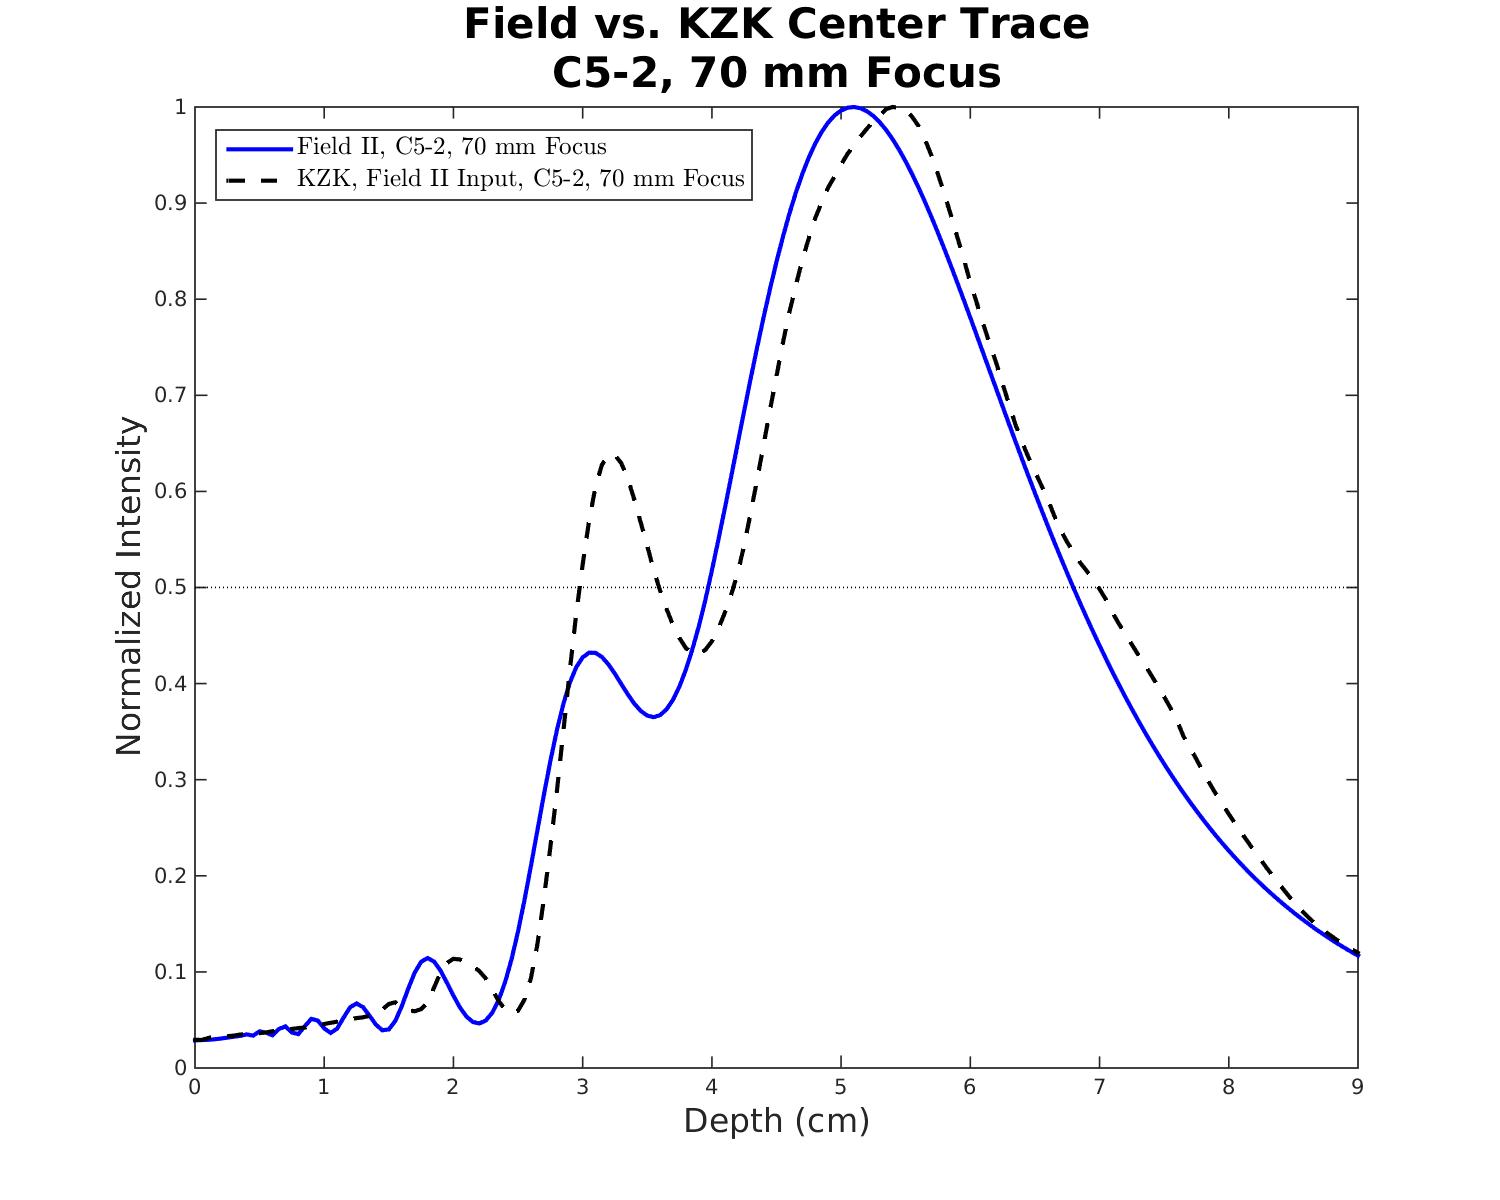
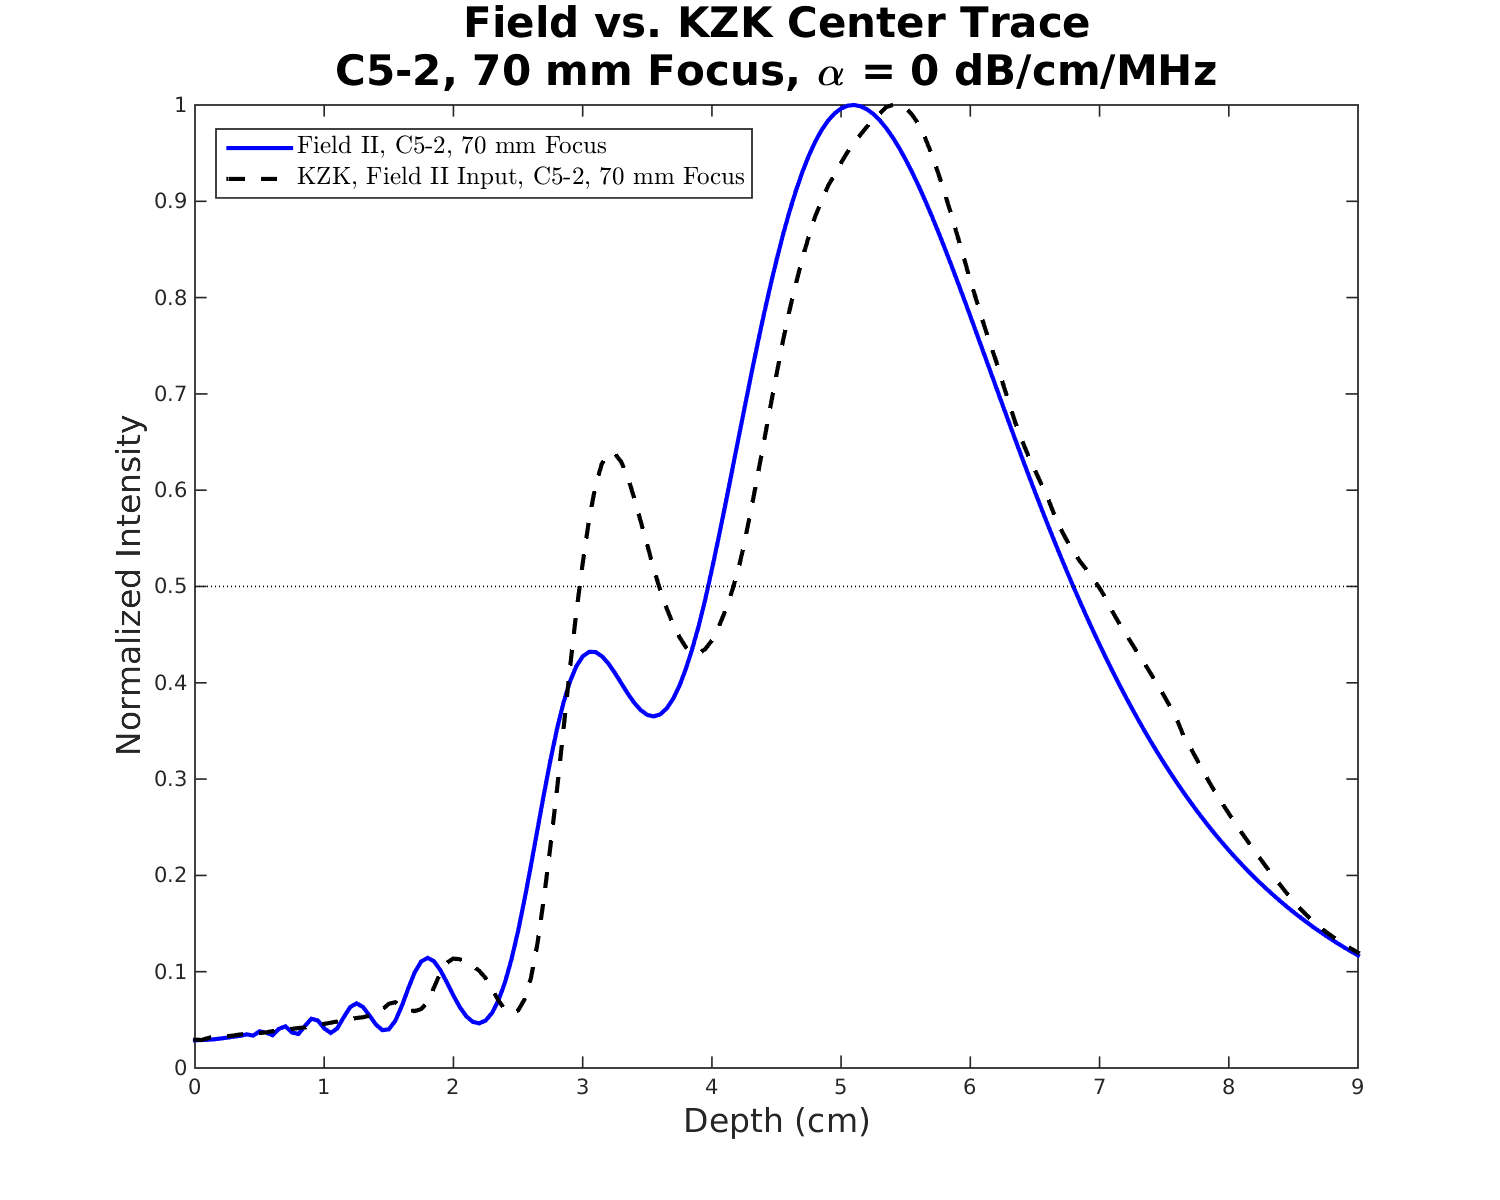
updated all centertrace plots for 70mm focus linear comparisons

diff --git a/comparisons/focus70mm/linear_compare/a_0.45/linear_compare.m b/comparisons/focus70mm/linear_compare/a_0.45/linear_compare.m
@@ -1,12 +1,12 @@
 clear; clf;
 
-addpath ../../../metrics/
+addpath ../../../../metrics/
 
 %% Field II and KZK (linear) sim comparisons - 70 mm focus
 
 % Field
 fprintf('Field II:\n')
-load /luscinia/nl91/nonlinear_acoustic/field/field_c52_70mm/dyna-I-f2.36-F3.5-FD0.070-a0.45.mat
+load /luscinia/nl91/nonlinear_acoustic/field/field_c52_70mm/a_0.45/dyna-I-f2.36-F3.5-FD0.070-a0.45.mat
 field_ele = -1.2:0.02:0;
 field_lat = 0:0.02:2.0;
 field_depth = 0:0.05:9.0;
@@ -53,7 +53,7 @@ fprintf('\n')
 % Linear KZK w/ Field II Pressure Input
 fprintf('Linear KZK w/ Field II Pressure Input:\n')
 load(['/luscinia/nl91/nonlinear_acoustic/kzk/field_ii_c52_focus70mm/'...
-      'B_0/a_0.45_B_0/c52_70mm_intensity_field_field_ii_pressure_input.mat'])
+      'B_0.0/a_0.450_B_0/c52_70mm_intensity_field_field_ii_pressure_input.mat'])
           
 intensity_kzk_finput_70mm = permute(intensity, [3 2 1]);
 intensity_kzk_finput_70mm = intensity_kzk_finput_70mm(1:length(kzk_ele), length(kzk_lat):end, :);
@@ -78,89 +78,88 @@ imagesc(squeeze(intensity_kzk_finput_70mm(end, :, :))')
 
 %% center trace plot
 figure(2)
-centertrace('field_kzk_centertrace_c52_70mm.png', 'Field vs. KZK Center Trace - C5-2, 70 mm Focus',...
+centertrace('field_kzk_centertrace_c52_70mm.png', ['Field vs. KZK Center Trace' 10 'C5-2, 70 mm Focus, \alpha = 0.45 dB/cm/MHz'],...
             intensity_field_70mm, intensity_field_70mm_depth, 'Field II, C5-2, 70 mm Focus',...
-            intensity_kzk_70mm, intensity_kzk_70mm_depth, 'KZK, C5-2, 70 mm Focus',...
             intensity_kzk_finput_70mm, intensity_kzk_70mm_depth, 'KZK, Field II Input, C5-2, 70mm Focus')
         
-%% KZK contour plots
-% 10 is the ASCII value for a newline. used to break subplot title string
-% into multiple lines.
-nln = 10;
-
-% contour plot in elevation-lateral plane at various depths
-% Depth planes in 3.75 cm, 5.10 cm, and 6.40 cm planes. These planes chosen
-% because Field II intensity field is maximum in 3.75 cm plane and KZK
-% intensity field is max in 6.40 cm plane.
-figure(3);
-contourplots('kzk_70mm_depth.png', ['KZK Sim' nln 'Expt. Input, 70 mm Focus' nln 'Depth Plane'],...
-              intensity_kzk_70mm, kzk_ele, kzk_lat, kzk_depth, 3,...
-              [76 103 129], [0 0.45 -.4 0]);
-
-% contour plot in depth-elevation plane at various lateral positions
-% Lateral planes are 0.00 cm, 0.06 cm, and 0.14 cm planes. These planes chosen
-% because KZK intensity field is maximum in 0.00 cm plane and Field II
-% intensity field is max in 0.14 cm plane.
-figure(4);
-contourplots('kzk_70mm_lateral.png', ['KZK Sim' nln 'Expt. Input, 70 mm Focus' nln 'Lateral Plane'],...
-             intensity_kzk_70mm, kzk_ele, kzk_lat, kzk_depth, 2,...
-             [1 4 8], [-.3 0 1 9]);
-
-% contour plot in depth-lateral plane at various elevational positions
-% Elevational planes are -0.14 cm, -0.06 cm, and 0.00 cm planes. These 
-% planes were chosen because both Field II and KZK intensity fields are
-% maximum in 0.00 cm plane.
-figure(5);
-contourplots('kzk_70mm_elevational.png', ['KZK Sim' nln 'Expt. Input, 70 mm Focus' nln 'Elevational Plane'],...
-             intensity_kzk_70mm, kzk_ele, kzk_lat, kzk_depth, 1,...
-             [53 57 61], [0 .6 1 9]);
-         
-%% Field II contour plots
-% contour plot in elevation-lateral plane at various depths
-% Depth planes in 3.75 cm, 5.10 cm, and 6.40 cm planes.
-figure(6);
-contourplots('field2_70mm_depth.png', ['Field II, 70 mm Focus' nln 'Depth Plane'],...
-             intensity_field_70mm, field_ele, field_lat, field_depth, 3,...
-             [76 103 129], [0 0.45 -.4 0]);
-
-% contour plot in depth-elevation plane at various lateral positions
-% Lateral planes are 0.00 cm, 0.06 cm, and 0.14 cm planes.
-figure(7);
-contourplots('field2_70mm_lateral.png', ['Field II, 70 mm Focus' nln 'Lateral Plane'],...
-             intensity_field_70mm, field_ele, field_lat, field_depth, 2,...
-             [1 4 8], [-.3 0 1 9]);
-
-% contour plot in depth-lateral plane at various elevational positions         
-% Elevational planes are -0.14 cm, -0.06 cm, and 0.00 cm planes.
-figure(8);
-contourplots('field2_70mm_elevational.png', ['Field II, 70 mm Focus' nln 'Elevational Plane'],...
-             intensity_field_70mm, field_ele, field_lat, field_depth, 1,...
-             [53 57 61], [0 .6 1 9]);
-         
-%% KZK, Field II pressure input, contour plots 
-% contour plot in elevation-lateral plane at various depths
-% Depth planes in 2.3 cm, 2.75 cm, and 3.2 cm planes. These planes chosen
-% because KZK intensity field is maximum in 2.3 cm plane and Field II
-% intensity field is max in 3.2 cm plane.
-figure(9);
-contourplots('kzk_f2_input_70mm_depth.png', ['KZK Sim' nln 'Field II Inputs, 70 mm Focus' nln 'Depth Plane'],...
-              intensity_kzk_finput_70mm, kzk_ele, kzk_lat, kzk_depth, 3,...
-              [76 103 129], [0 0.45 -.4 0]);
-
-% contour plot in depth-elevation plane at various lateral positions
-% Lateral planes are 0.00 cm, 0.08 cm, and 0.16 cm planes. 0.00 cm plane
-% was chosen because both KZK and Field II intensity fields were maximum at
-% 0.00 cm lateral position.
-figure(10);
-contourplots('kzk_f2_input_70mm_lateral.png', ['KZK Sim' nln 'Field II Inputs, 70 mm Focus' nln 'Lateral Plane'],...
-             intensity_kzk_finput_70mm, kzk_ele, kzk_lat, kzk_depth, 2,...
-             [1 4 8], [-.3 0 1 9]);
-
-% contour plot in depth-lateral plane at various elevational positions
-% Elevational planes are -0.14 cm, -0.06 cm, and 0.00 cm planes. These 
-% planes were chosen because KZK intensity field is maximum in -0.14 cm 
-% plane while the Field II intensity field is max in 0.00 cm plane.
-figure(11);
-contourplots('kzk_f2_input_70mm_elevational.png', ['KZK Sim' nln 'Field II Inputs, 70 mm Focus' nln 'Elevational Plane'],...
-             intensity_kzk_finput_70mm, kzk_ele, kzk_lat, kzk_depth, 1,...
-             [53 57 61], [0 .6 1 9]);
+% %% KZK contour plots
+% % 10 is the ASCII value for a newline. used to break subplot title string
+% % into multiple lines.
+% nln = 10;
+% 
+% % contour plot in elevation-lateral plane at various depths
+% % Depth planes in 3.75 cm, 5.10 cm, and 6.40 cm planes. These planes chosen
+% % because Field II intensity field is maximum in 3.75 cm plane and KZK
+% % intensity field is max in 6.40 cm plane.
+% figure(3);
+% contourplots('kzk_70mm_depth.png', ['KZK Sim' nln 'Expt. Input, 70 mm Focus' nln 'Depth Plane'],...
+%               intensity_kzk_70mm, kzk_ele, kzk_lat, kzk_depth, 3,...
+%               [76 103 129], [0 0.45 -.4 0]);
+% 
+% % contour plot in depth-elevation plane at various lateral positions
+% % Lateral planes are 0.00 cm, 0.06 cm, and 0.14 cm planes. These planes chosen
+% % because KZK intensity field is maximum in 0.00 cm plane and Field II
+% % intensity field is max in 0.14 cm plane.
+% figure(4);
+% contourplots('kzk_70mm_lateral.png', ['KZK Sim' nln 'Expt. Input, 70 mm Focus' nln 'Lateral Plane'],...
+%              intensity_kzk_70mm, kzk_ele, kzk_lat, kzk_depth, 2,...
+%              [1 4 8], [-.3 0 1 9]);
+% 
+% % contour plot in depth-lateral plane at various elevational positions
+% % Elevational planes are -0.14 cm, -0.06 cm, and 0.00 cm planes. These 
+% % planes were chosen because both Field II and KZK intensity fields are
+% % maximum in 0.00 cm plane.
+% figure(5);
+% contourplots('kzk_70mm_elevational.png', ['KZK Sim' nln 'Expt. Input, 70 mm Focus' nln 'Elevational Plane'],...
+%              intensity_kzk_70mm, kzk_ele, kzk_lat, kzk_depth, 1,...
+%              [53 57 61], [0 .6 1 9]);
+%          
+% %% Field II contour plots
+% % contour plot in elevation-lateral plane at various depths
+% % Depth planes in 3.75 cm, 5.10 cm, and 6.40 cm planes.
+% figure(6);
+% contourplots('field2_70mm_depth.png', ['Field II, 70 mm Focus' nln 'Depth Plane'],...
+%              intensity_field_70mm, field_ele, field_lat, field_depth, 3,...
+%              [76 103 129], [0 0.45 -.4 0]);
+% 
+% % contour plot in depth-elevation plane at various lateral positions
+% % Lateral planes are 0.00 cm, 0.06 cm, and 0.14 cm planes.
+% figure(7);
+% contourplots('field2_70mm_lateral.png', ['Field II, 70 mm Focus' nln 'Lateral Plane'],...
+%              intensity_field_70mm, field_ele, field_lat, field_depth, 2,...
+%              [1 4 8], [-.3 0 1 9]);
+% 
+% % contour plot in depth-lateral plane at various elevational positions         
+% % Elevational planes are -0.14 cm, -0.06 cm, and 0.00 cm planes.
+% figure(8);
+% contourplots('field2_70mm_elevational.png', ['Field II, 70 mm Focus' nln 'Elevational Plane'],...
+%              intensity_field_70mm, field_ele, field_lat, field_depth, 1,...
+%              [53 57 61], [0 .6 1 9]);
+%          
+% %% KZK, Field II pressure input, contour plots 
+% % contour plot in elevation-lateral plane at various depths
+% % Depth planes in 2.3 cm, 2.75 cm, and 3.2 cm planes. These planes chosen
+% % because KZK intensity field is maximum in 2.3 cm plane and Field II
+% % intensity field is max in 3.2 cm plane.
+% figure(9);
+% contourplots('kzk_f2_input_70mm_depth.png', ['KZK Sim' nln 'Field II Inputs, 70 mm Focus' nln 'Depth Plane'],...
+%               intensity_kzk_finput_70mm, kzk_ele, kzk_lat, kzk_depth, 3,...
+%               [76 103 129], [0 0.45 -.4 0]);
+% 
+% % contour plot in depth-elevation plane at various lateral positions
+% % Lateral planes are 0.00 cm, 0.08 cm, and 0.16 cm planes. 0.00 cm plane
+% % was chosen because both KZK and Field II intensity fields were maximum at
+% % 0.00 cm lateral position.
+% figure(10);
+% contourplots('kzk_f2_input_70mm_lateral.png', ['KZK Sim' nln 'Field II Inputs, 70 mm Focus' nln 'Lateral Plane'],...
+%              intensity_kzk_finput_70mm, kzk_ele, kzk_lat, kzk_depth, 2,...
+%              [1 4 8], [-.3 0 1 9]);
+% 
+% % contour plot in depth-lateral plane at various elevational positions
+% % Elevational planes are -0.14 cm, -0.06 cm, and 0.00 cm planes. These 
+% % planes were chosen because KZK intensity field is maximum in -0.14 cm 
+% % plane while the Field II intensity field is max in 0.00 cm plane.
+% figure(11);
+% contourplots('kzk_f2_input_70mm_elevational.png', ['KZK Sim' nln 'Field II Inputs, 70 mm Focus' nln 'Elevational Plane'],...
+%              intensity_kzk_finput_70mm, kzk_ele, kzk_lat, kzk_depth, 1,...
+%              [53 57 61], [0 .6 1 9]);

diff --git a/comparisons/focus70mm/linear_compare/a_0.005/linear_compare.m b/comparisons/focus70mm/linear_compare/a_0.005/linear_compare.m
@@ -1,6 +1,6 @@
 clear; clf;
 
-addpath ../../../../metrics/
+addpath /luscinia/nl91/nonlinear_acoustic/metrics/
 
 %% Field II and KZK (linear) sim comparisons - 70 mm focus
 
@@ -53,7 +53,7 @@ fprintf('\n')
 % Linear KZK w/ Field II Pressure Input
 fprintf('Linear KZK w/ Field II Pressure Input:\n')
 load(['/luscinia/nl91/nonlinear_acoustic/kzk/field_ii_c52_focus70mm/'...
-      'B_0/a_0.005_B_0/c52_70mm_intensity_field_field_ii_pressure_input.mat'])
+      'B_0.0/a_0.005_B_0/c52_70mm_intensity_field_field_ii_pressure_input.mat'])
           
 intensity_kzk_finput_70mm = permute(intensity, [3 2 1]);
 intensity_kzk_finput_70mm = intensity_kzk_finput_70mm(1:length(kzk_ele), length(kzk_lat):end, :);
@@ -78,89 +78,88 @@ imagesc(squeeze(intensity_kzk_finput_70mm(end, :, :))')
 
 %% center trace plot
 figure(2)
-centertrace('field_kzk_centertrace_c52_70mm.png', 'Field vs. KZK Center Trace - C5-2, 70 mm Focus',...
+centertrace('field_kzk_centertrace_c52_70mm.png', ['Field vs. KZK Center Trace' 10 'C5-2, 70 mm Focus, \alpha = 0.005 dB/cm/MHz'],...
             intensity_field_70mm, intensity_field_70mm_depth, 'Field II, C5-2, 70 mm Focus',...
-            intensity_kzk_70mm, intensity_kzk_70mm_depth, 'KZK, C5-2, 70 mm Focus',...
-            intensity_kzk_finput_70mm, intensity_kzk_70mm_depth, 'KZK, Field II Input, C5-2, 70mm Focus')
+            intensity_kzk_finput_70mm, intensity_kzk_70mm_depth, 'KZK, Field II Input, C5-2, 70 mm Focus')
         
-%% KZK contour plots
-% 10 is the ASCII value for a newline. used to break subplot title string
-% into multiple lines.
-nln = 10;
-
-% contour plot in elevation-lateral plane at various depths
-% Depth planes in 3.75 cm, 5.10 cm, and 6.40 cm planes. These planes chosen
-% because Field II intensity field is maximum in 3.75 cm plane and KZK
-% intensity field is max in 6.40 cm plane.
-figure(3);
-contourplots('kzk_70mm_depth.png', ['KZK Sim' nln 'Expt. Input, 70 mm Focus' nln 'Depth Plane'],...
-              intensity_kzk_70mm, kzk_ele, kzk_lat, kzk_depth, 3,...
-              [76 103 129], [0 0.45 -.4 0]);
-
-% contour plot in depth-elevation plane at various lateral positions
-% Lateral planes are 0.00 cm, 0.06 cm, and 0.14 cm planes. These planes chosen
-% because KZK intensity field is maximum in 0.00 cm plane and Field II
-% intensity field is max in 0.14 cm plane.
-figure(4);
-contourplots('kzk_70mm_lateral.png', ['KZK Sim' nln 'Expt. Input, 70 mm Focus' nln 'Lateral Plane'],...
-             intensity_kzk_70mm, kzk_ele, kzk_lat, kzk_depth, 2,...
-             [1 4 8], [-.3 0 1 9]);
-
-% contour plot in depth-lateral plane at various elevational positions
-% Elevational planes are -0.14 cm, -0.06 cm, and 0.00 cm planes. These 
-% planes were chosen because both Field II and KZK intensity fields are
-% maximum in 0.00 cm plane.
-figure(5);
-contourplots('kzk_70mm_elevational.png', ['KZK Sim' nln 'Expt. Input, 70 mm Focus' nln 'Elevational Plane'],...
-             intensity_kzk_70mm, kzk_ele, kzk_lat, kzk_depth, 1,...
-             [53 57 61], [0 .6 1 9]);
-         
-%% Field II contour plots
-% contour plot in elevation-lateral plane at various depths
-% Depth planes in 3.75 cm, 5.10 cm, and 6.40 cm planes.
-figure(6);
-contourplots('field2_70mm_depth.png', ['Field II, 70 mm Focus' nln 'Depth Plane'],...
-             intensity_field_70mm, field_ele, field_lat, field_depth, 3,...
-             [76 103 129], [0 0.45 -.4 0]);
-
-% contour plot in depth-elevation plane at various lateral positions
-% Lateral planes are 0.00 cm, 0.06 cm, and 0.14 cm planes.
-figure(7);
-contourplots('field2_70mm_lateral.png', ['Field II, 70 mm Focus' nln 'Lateral Plane'],...
-             intensity_field_70mm, field_ele, field_lat, field_depth, 2,...
-             [1 4 8], [-.3 0 1 9]);
-
-% contour plot in depth-lateral plane at various elevational positions         
-% Elevational planes are -0.14 cm, -0.06 cm, and 0.00 cm planes.
-figure(8);
-contourplots('field2_70mm_elevational.png', ['Field II, 70 mm Focus' nln 'Elevational Plane'],...
-             intensity_field_70mm, field_ele, field_lat, field_depth, 1,...
-             [53 57 61], [0 .6 1 9]);
-         
-%% KZK, Field II pressure input, contour plots 
-% contour plot in elevation-lateral plane at various depths
-% Depth planes in 2.3 cm, 2.75 cm, and 3.2 cm planes. These planes chosen
-% because KZK intensity field is maximum in 2.3 cm plane and Field II
-% intensity field is max in 3.2 cm plane.
-figure(9);
-contourplots('kzk_f2_input_70mm_depth.png', ['KZK Sim' nln 'Field II Inputs, 70 mm Focus' nln 'Depth Plane'],...
-              intensity_kzk_finput_70mm, kzk_ele, kzk_lat, kzk_depth, 3,...
-              [76 103 129], [0 0.45 -.4 0]);
-
-% contour plot in depth-elevation plane at various lateral positions
-% Lateral planes are 0.00 cm, 0.08 cm, and 0.16 cm planes. 0.00 cm plane
-% was chosen because both KZK and Field II intensity fields were maximum at
-% 0.00 cm lateral position.
-figure(10);
-contourplots('kzk_f2_input_70mm_lateral.png', ['KZK Sim' nln 'Field II Inputs, 70 mm Focus' nln 'Lateral Plane'],...
-             intensity_kzk_finput_70mm, kzk_ele, kzk_lat, kzk_depth, 2,...
-             [1 4 8], [-.3 0 1 9]);
-
-% contour plot in depth-lateral plane at various elevational positions
-% Elevational planes are -0.14 cm, -0.06 cm, and 0.00 cm planes. These 
-% planes were chosen because KZK intensity field is maximum in -0.14 cm 
-% plane while the Field II intensity field is max in 0.00 cm plane.
-figure(11);
-contourplots('kzk_f2_input_70mm_elevational.png', ['KZK Sim' nln 'Field II Inputs, 70 mm Focus' nln 'Elevational Plane'],...
-             intensity_kzk_finput_70mm, kzk_ele, kzk_lat, kzk_depth, 1,...
-             [53 57 61], [0 .6 1 9]);
+% %% KZK contour plots
+% % 10 is the ASCII value for a newline. used to break subplot title string
+% % into multiple lines.
+% nln = 10;
+% 
+% % contour plot in elevation-lateral plane at various depths
+% % Depth planes in 3.75 cm, 5.10 cm, and 6.40 cm planes. These planes chosen
+% % because Field II intensity field is maximum in 3.75 cm plane and KZK
+% % intensity field is max in 6.40 cm plane.
+% figure(3);
+% contourplots('kzk_70mm_depth.png', ['KZK Sim' nln 'Expt. Input, 70 mm Focus' nln 'Depth Plane'],...
+%               intensity_kzk_70mm, kzk_ele, kzk_lat, kzk_depth, 3,...
+%               [76 103 129], [0 0.45 -.4 0]);
+% 
+% % contour plot in depth-elevation plane at various lateral positions
+% % Lateral planes are 0.00 cm, 0.06 cm, and 0.14 cm planes. These planes chosen
+% % because KZK intensity field is maximum in 0.00 cm plane and Field II
+% % intensity field is max in 0.14 cm plane.
+% figure(4);
+% contourplots('kzk_70mm_lateral.png', ['KZK Sim' nln 'Expt. Input, 70 mm Focus' nln 'Lateral Plane'],...
+%              intensity_kzk_70mm, kzk_ele, kzk_lat, kzk_depth, 2,...
+%              [1 4 8], [-.3 0 1 9]);
+% 
+% % contour plot in depth-lateral plane at various elevational positions
+% % Elevational planes are -0.14 cm, -0.06 cm, and 0.00 cm planes. These 
+% % planes were chosen because both Field II and KZK intensity fields are
+% % maximum in 0.00 cm plane.
+% figure(5);
+% contourplots('kzk_70mm_elevational.png', ['KZK Sim' nln 'Expt. Input, 70 mm Focus' nln 'Elevational Plane'],...
+%              intensity_kzk_70mm, kzk_ele, kzk_lat, kzk_depth, 1,...
+%              [53 57 61], [0 .6 1 9]);
+%          
+% %% Field II contour plots
+% % contour plot in elevation-lateral plane at various depths
+% % Depth planes in 3.75 cm, 5.10 cm, and 6.40 cm planes.
+% figure(6);
+% contourplots('field2_70mm_depth.png', ['Field II, 70 mm Focus' nln 'Depth Plane'],...
+%              intensity_field_70mm, field_ele, field_lat, field_depth, 3,...
+%              [76 103 129], [0 0.45 -.4 0]);
+% 
+% % contour plot in depth-elevation plane at various lateral positions
+% % Lateral planes are 0.00 cm, 0.06 cm, and 0.14 cm planes.
+% figure(7);
+% contourplots('field2_70mm_lateral.png', ['Field II, 70 mm Focus' nln 'Lateral Plane'],...
+%              intensity_field_70mm, field_ele, field_lat, field_depth, 2,...
+%              [1 4 8], [-.3 0 1 9]);
+% 
+% % contour plot in depth-lateral plane at various elevational positions         
+% % Elevational planes are -0.14 cm, -0.06 cm, and 0.00 cm planes.
+% figure(8);
+% contourplots('field2_70mm_elevational.png', ['Field II, 70 mm Focus' nln 'Elevational Plane'],...
+%              intensity_field_70mm, field_ele, field_lat, field_depth, 1,...
+%              [53 57 61], [0 .6 1 9]);
+%          
+% %% KZK, Field II pressure input, contour plots 
+% % contour plot in elevation-lateral plane at various depths
+% % Depth planes in 2.3 cm, 2.75 cm, and 3.2 cm planes. These planes chosen
+% % because KZK intensity field is maximum in 2.3 cm plane and Field II
+% % intensity field is max in 3.2 cm plane.
+% figure(9);
+% contourplots('kzk_f2_input_70mm_depth.png', ['KZK Sim' nln 'Field II Inputs, 70 mm Focus' nln 'Depth Plane'],...
+%               intensity_kzk_finput_70mm, kzk_ele, kzk_lat, kzk_depth, 3,...
+%               [76 103 129], [0 0.45 -.4 0]);
+% 
+% % contour plot in depth-elevation plane at various lateral positions
+% % Lateral planes are 0.00 cm, 0.08 cm, and 0.16 cm planes. 0.00 cm plane
+% % was chosen because both KZK and Field II intensity fields were maximum at
+% % 0.00 cm lateral position.
+% figure(10);
+% contourplots('kzk_f2_input_70mm_lateral.png', ['KZK Sim' nln 'Field II Inputs, 70 mm Focus' nln 'Lateral Plane'],...
+%              intensity_kzk_finput_70mm, kzk_ele, kzk_lat, kzk_depth, 2,...
+%              [1 4 8], [-.3 0 1 9]);
+% 
+% % contour plot in depth-lateral plane at various elevational positions
+% % Elevational planes are -0.14 cm, -0.06 cm, and 0.00 cm planes. These 
+% % planes were chosen because KZK intensity field is maximum in -0.14 cm 
+% % plane while the Field II intensity field is max in 0.00 cm plane.
+% figure(11);
+% contourplots('kzk_f2_input_70mm_elevational.png', ['KZK Sim' nln 'Field II Inputs, 70 mm Focus' nln 'Elevational Plane'],...
+%              intensity_kzk_finput_70mm, kzk_ele, kzk_lat, kzk_depth, 1,...
+%              [53 57 61], [0 .6 1 9]);

diff --git a/comparisons/focus70mm/linear_compare/a_0/linear_compare.m b/comparisons/focus70mm/linear_compare/a_0/linear_compare.m
@@ -80,7 +80,7 @@ imagesc(squeeze(intensity_kzk_finput_70mm(end, :, :))')
 
 %% center trace plot
 figure(2)
-centertrace('field_kzk_centertrace_c52_70mm.png', ['Field vs. KZK Center Trace' nln  'C5-2, 70 mm Focus'],...
+centertrace('field_kzk_centertrace_c52_70mm.png', ['Field vs. KZK Center Trace' nln  'C5-2, 70 mm Focus, \alpha = 0 dB/cm/MHz'],...
             intensity_field_70mm, intensity_field_70mm_depth, 'Field II, C5-2, 70 mm Focus',...
             intensity_kzk_finput_70mm, intensity_kzk_70mm_depth, 'KZK, Field II Input, C5-2, 70 mm Focus')
         
